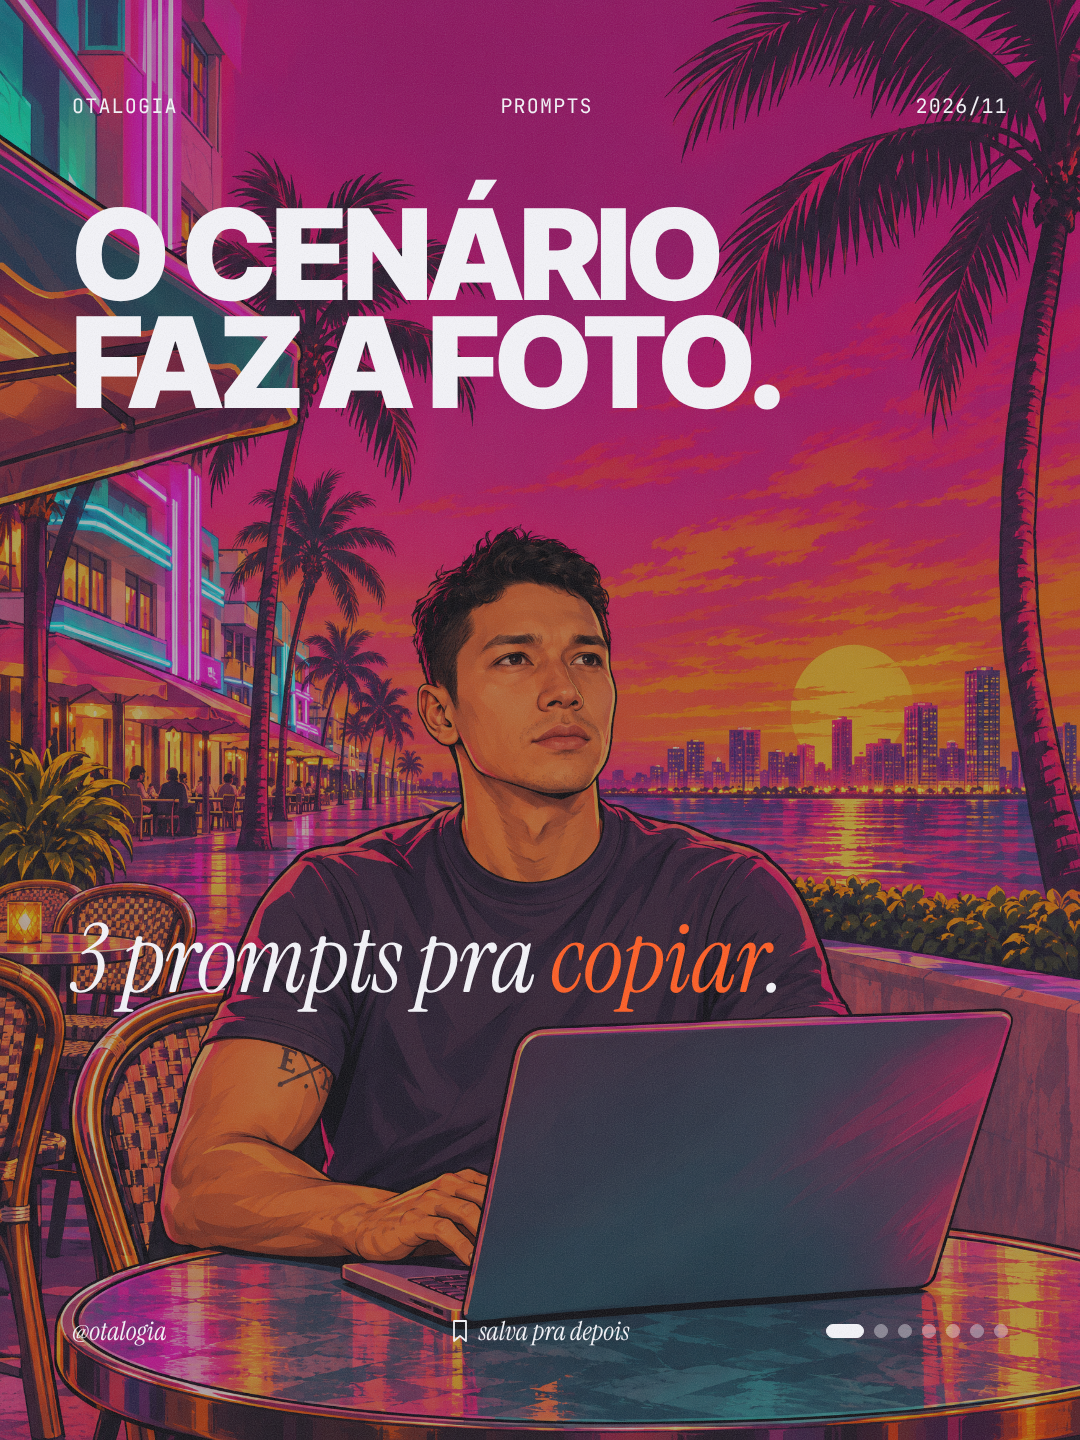
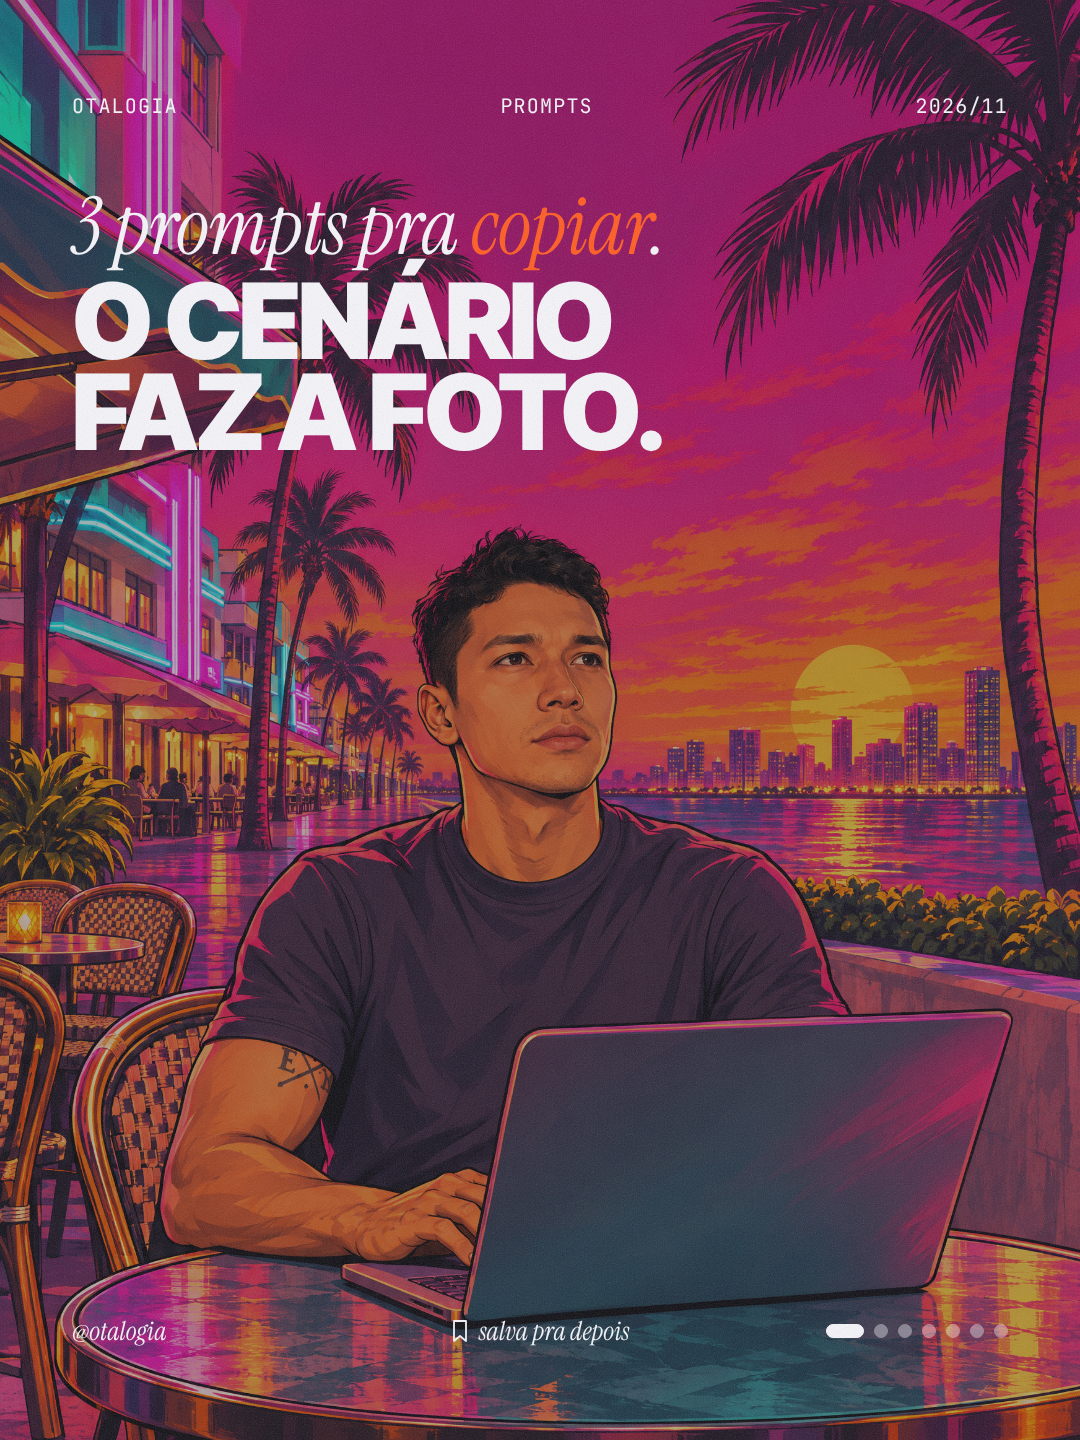
fix: capa do prompt-cenario (título acima do rosto no motion); engine aceita capa.posicao
Claude-Session: https://claude.ai/code/session_017wxwMT1NHwdS8pjbyZHpYe

Changed region(s): [[0.0611, 0.125, 0.7333, 0.3125], [0.0611, 0.6562, 0.7333, 0.7188]]

diff --git a/carrosseis/2026-11-prompt-cenario/motion/index.html b/carrosseis/2026-11-prompt-cenario/motion/index.html
@@ -22,9 +22,9 @@
     <img class="foto" src="img/capa_orig.png" alt="" />
     <img class="bloom" src="img/capa_orig.png" alt="" />
     <div class="brasas" data-layout-allow-overflow></div>
-    <div class="conteudo" style="top: 200px; left: 72px; width: 720px">
-      <h1 class="display" data-layout-allow-overflow data-layout-allow-occlusion><span class="linha"><span>O CENÁRIO</span></span><span class="linha"><span>FAZ A FOTO.</span></span></h1>
+    <div class="conteudo" style="top: 190px; left: 72px; width: 600px">
       <p class="emocao">3 prompts pra <span class="hot">copiar</span>.</p>
+      <h1 class="display" data-layout-allow-overflow data-layout-allow-occlusion><span class="linha"><span>O CENÁRIO</span></span><span class="linha"><span>FAZ A FOTO.</span></span></h1>
     </div>
     <div class="base"><div class="arrasta">arrasta <b></b></div></div>
     <div class="topo"><span>otalogia</span><span>prompts</span><span>2026/11</span></div>

diff --git a/motor/carrossel_prompts.py b/motor/carrossel_prompts.py
@@ -83,7 +83,7 @@ def main():
         if not (d / f"{nome}_orig.png").exists():
             urllib.request.urlretrieve(f["url"], d / f"{nome}_orig.png")
     P = spec["pares"]
-    slides = [{"template": "T1", "display": spec["capa"]["display"], "emocao": {"texto": spec["capa"]["emocao"], "posicao": "depois"}, "imagem": "capa_orig.png"},
+    slides = [{"template": "T1", "display": spec["capa"]["display"], "emocao": {"texto": spec["capa"]["emocao"], "posicao": spec["capa"].get("posicao", "depois")}, "imagem": "capa_orig.png"},
               {"template": "T3", "display": ["PROMPT 1", P[0]["titulo"]], "lista": P[0]["lista"], "imagem": None}]
     for k, img in ((1, "slide3_orig.png"), (2, "slide5_orig.png")):
         slides += [{"template": "T2", "display": P[k]["display"], "emocao": {"texto": P[k]["emocao"], "posicao": "depois"}, "imagem": img},
